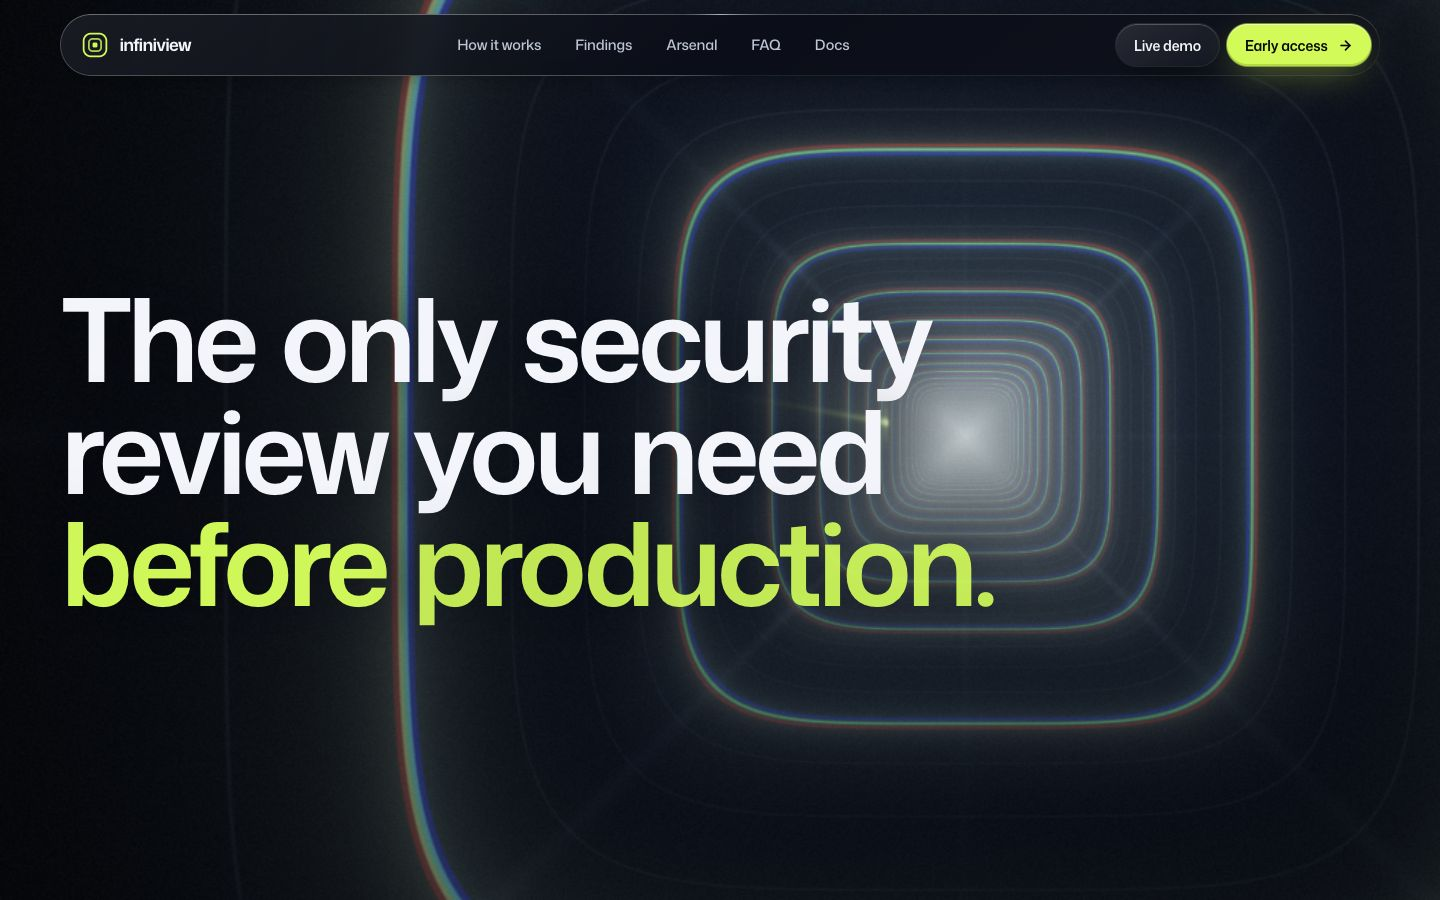
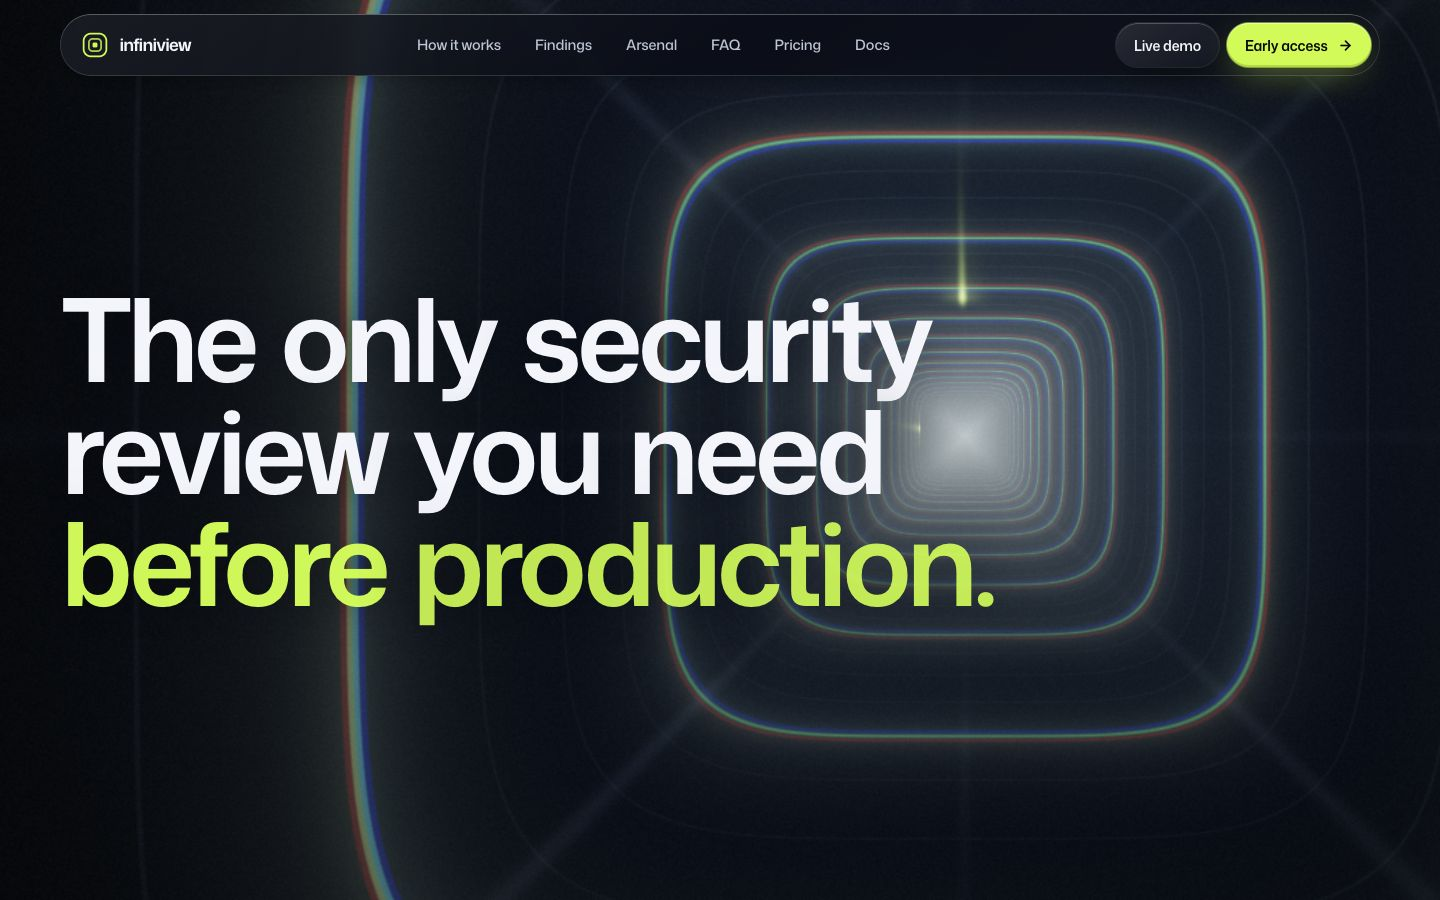
Remove the pointer-following sheen and rim from the glass panes
The radial sheen and the conic rim whose angle followed the pointer are gone
(waitlist box, header bar, hero card and every other pane). Panes keep a flat
1px hairline edge; glass buttons brighten flat on hover. The pointer-lit effect
block in the shell is deleted with its custom properties.

This is deliberately a separate, final commit: reverting it restores the effect
(code, README wording and screenshots together).

Verified on the built site: 222/222 end-to-end checks on the production build
and on the dev server, axe clean, contrast sweeps clean (fade-in snapshots
aside), WebKit and Firefox smoke. README screenshots regenerated.

diff --git a/src/components/site/shell.tsx b/src/components/site/shell.tsx
@@ -24,7 +24,6 @@ let navIntroPlayed = false;
  * SiteShell — the single owner of time on this site.
  *   · Lenis smooth scroll, driven from GSAP's ticker (one clock for everything)
  *   · scroll → corridor depth, pointer → light
- *   · pointer-lit glass (rim + sheen follow the cursor)
  *   · scroll reveals + split-text headings
  */
 export function SiteShell({ children }: { children: ReactNode }) {
@@ -375,95 +374,6 @@ export function SiteShell({ children }: { children: ReactNode }) {
     ready.then(() => requestAnimationFrame(() => requestAnimationFrame(() => window.setTimeout(go, 60))));
     return () => {
       cancelled = true;
-    };
-  }, [pathname]);
-
-  /* ── Pointer-lit glass ──────────────────────────────────────────────── */
-  useEffect(() => {
-    if (isCoarsePointer()) return;
-    const mqReduce = window.matchMedia("(prefers-reduced-motion: reduce)");
-    const visible = new Set<HTMLElement>();
-    const io = new IntersectionObserver(
-      (entries) => {
-        for (const en of entries) {
-          const el = en.target as HTMLElement;
-          if (en.isIntersecting) visible.add(el);
-          else visible.delete(el);
-        }
-      },
-      { rootMargin: "120px" },
-    );
-    const watch = () => {
-      document
-        .querySelectorAll<HTMLElement>(".site-root .glass")
-        .forEach((el) => io.observe(el));
-    };
-    watch();
-    const rescan = window.setTimeout(watch, 900);
-
-    let px = -9999;
-    let py = -9999;
-    let queued = false;
-    const paint = () => {
-      queued = false;
-      // reduced motion (also if switched on while the page is open): no pointer light at all
-      if (mqReduce.matches) {
-        visible.forEach((el) => {
-          if (el.dataset.lit === "1") {
-            el.style.setProperty("--lit", "0");
-            el.dataset.lit = "0";
-          }
-        });
-        return;
-      }
-      // read every rect first, then write: interleaving reads and writes forces a synchronous
-      // layout per element on every pointer/scroll frame
-      const els = [...visible];
-      const rects = els.map((el) => el.getBoundingClientRect());
-      els.forEach((el, i) => {
-        const r = rects[i];
-        const near =
-          px > r.left - 140 && px < r.right + 140 && py > r.top - 140 && py < r.bottom + 140;
-        const was = el.dataset.lit === "1";
-        if (!near) {
-          if (was) {
-            el.style.setProperty("--lit", "0");
-            el.dataset.lit = "0";
-          }
-          return;
-        }
-        if (!was) {
-          el.style.setProperty("--lit", "1");
-          el.dataset.lit = "1";
-        }
-        el.style.setProperty("--mx", `${px - r.left}px`);
-        el.style.setProperty("--my", `${py - r.top}px`);
-        const cx = r.left + r.width / 2;
-        const cy = r.top + r.height / 2;
-        const deg = (Math.atan2(py - cy, px - cx) * 180) / Math.PI + 90;
-        el.style.setProperty("--rim-a", `${deg - 40}deg`);
-      });
-    };
-    const queue = () => {
-      if (!queued) {
-        queued = true;
-        requestAnimationFrame(paint);
-      }
-    };
-    const onMove = (e: PointerEvent) => {
-      px = e.clientX;
-      py = e.clientY;
-      queue();
-    };
-    window.addEventListener("pointermove", onMove, { passive: true });
-    window.addEventListener("scroll", queue, { passive: true });
-    mqReduce.addEventListener("change", queue);
-    return () => {
-      mqReduce.removeEventListener("change", queue);
-      window.clearTimeout(rescan);
-      io.disconnect();
-      window.removeEventListener("pointermove", onMove);
-      window.removeEventListener("scroll", queue);
     };
   }, [pathname]);
 

diff --git a/src/app/(site)/site.css b/src/app/(site)/site.css
@@ -253,10 +253,6 @@ html.lenis body {
 
   .glass {
     --r: 28px;
-    --lit: 0;
-    --mx: 50%;
-    --my: 0%;
-    --rim-a: 0deg;
     position: relative;
     isolation: isolate;
     border-radius: var(--r);
@@ -271,24 +267,7 @@ html.lenis body {
       0 40px 90px -40px rgba(0, 0, 0, 0.85),
       0 8px 24px -12px rgba(0, 0, 0, 0.5);
   }
-  /* pointer-following sheen */
-  .glass::before {
-    content: '';
-    position: absolute;
-    inset: 0;
-    z-index: -1;
-    border-radius: inherit;
-    pointer-events: none;
-    background: radial-gradient(
-      520px circle at var(--mx) var(--my),
-      rgba(255, 255, 255, 0.13),
-      rgba(255, 255, 255, 0.03) 45%,
-      transparent 70%
-    );
-    opacity: var(--lit);
-    transition: opacity 0.35s var(--ease-out);
-  }
-  /* luminous rim: a 1px conic gradient masked to the border box */
+  /* the pane's edge: a flat 1px hairline masked to the border box (the top highlight is in the shadow) */
   .glass::after {
     content: '';
     position: absolute;
@@ -296,15 +275,7 @@ html.lenis body {
     border-radius: inherit;
     padding: 1px;
     pointer-events: none;
-    background: conic-gradient(
-      from var(--rim-a) at 50% 50%,
-      rgba(255, 255, 255, 0.6),
-      rgba(255, 255, 255, 0.07) 18%,
-      rgba(255, 255, 255, 0.02) 42%,
-      rgba(255, 255, 255, 0.28) 68%,
-      rgba(255, 255, 255, 0.07) 86%,
-      rgba(255, 255, 255, 0.6)
-    );
+    background: rgba(255, 255, 255, 0.11);
     -webkit-mask: linear-gradient(#000 0 0) content-box, linear-gradient(#000 0 0);
     -webkit-mask-composite: xor;
     mask: linear-gradient(#000 0 0) content-box exclude, linear-gradient(#000 0 0);
@@ -414,7 +385,7 @@ html.lenis body {
   }
   .btn--glass:hover {
     background:
-      linear-gradient(145deg, rgba(255, 255, 255, 0.2), rgba(255, 255, 255, 0.06)),
+      linear-gradient(rgba(255, 255, 255, 0.1), rgba(255, 255, 255, 0.1)),
       rgba(8, 10, 20, 0.4);
     box-shadow:
       inset 0 1px 0 rgba(255, 255, 255, 0.35),
@@ -2751,7 +2722,6 @@ html:not(.js) .site-root .dot--sig { opacity: 1; }
     transform: none !important;
     animation: none !important;
   }
-  .glass::before,
   .glass::after { display: none !important; }
   .counter-anim { display: none !important; }
   .counter-final { position: static !important; width: auto !important; height: auto !important; margin: 0 !important; overflow: visible !important; clip: auto !important; clip-path: none !important; white-space: normal !important; }

diff --git a/docs/redesign/README.md b/docs/redesign/README.md
@@ -48,13 +48,13 @@ on the threat marquee and the footer wordmark, and animates open on the hero hea
 One clock, one scroll engine, no competing animators.
 
 - **GSAP 3.15** (ScrollTrigger, SplitText) owns all choreography. **Lenis** owns smooth scroll and is driven *from GSAP's ticker*, so scroll, the WebGL scene and every tween share a frame.
-- `components/site/shell.tsx` is the single owner of time: Lenis, damping of scroll → corridor depth, pointer → light, the pointer-lit glass rims, and the global scroll-reveal / split-heading system.
+- `components/site/shell.tsx` is the single owner of time: Lenis, damping of scroll → corridor depth, pointer → light, and the global scroll-reveal / split-heading system.
 - **The corridor** (`corridor-shader.ts`) is a from-scratch fragment shader, not a library: a rounded-square tube solved analytically (superellipse radius → depth, no ray-marching), glass frames with constant z-thickness so perspective is exact, prismatic dispersion in *pixel* terms, ribbed secondary frames, agent "probes" running down the walls, and a portal at the vanishing point. Scroll sets camera depth; velocity adds roll and dispersion; each chapter nudges a shared `mood` (alert, energy, portal, width).
 - Easing is `expo.out` / `power4.out` for arrivals and `power3.inOut` for transitions; feedback on controls is ≤ 0.3 s.
 - **Performance**: the canvas renders at a fraction of device resolution with a frame-time governor that sheds pixels first and, only if that is not enough, sets `html[data-perf="low"]` which removes backdrop blur. Large, mostly-opaque panes do not blur at all. The loop pauses with the tab.
 - **Progressive enhancement**: collapsing (pipeline steps, FAQ, arsenal layers) only happens when script is running, so with no script everything stays readable; collapsed copy is also removed from the accessibility tree rather than just clipped. A failsafe in the root layout reveals all marketing content if the app bundle never boots.
 - **Reduced motion**: Lenis is off, the corridor renders one still frame, pinned scrub sequences become static layouts, everything is visible. Content is only hidden when script is present *and* will reveal it; a failsafe un-hides after 3 s (the entrance then simply does not play).
-- **Touch**: pointer effects (tilt, magnetic buttons, rim light) are disabled on coarse pointers; the pinned pipeline restages for phones, and its stage is sized so the active step's copy always fits the screen (checked from 320×568 up). Screens under 560px tall (a phone in landscape) get the same static layout as reduced motion, because a pinned stage plus its copy cannot fit there.
+- **Touch**: pointer effects (tilt, magnetic buttons) are disabled on coarse pointers; the pinned pipeline restages for phones, and its stage is sized so the active step's copy always fits the screen (checked from 320×568 up). Screens under 560px tall (a phone in landscape) get the same static layout as reduced motion, because a pinned stage plus its copy cannot fit there.
 - **Live preference changes**: switching reduced motion on or off while the page is open is honoured by the marquee, the scan stream, the magnetic buttons, the pointer light, Lenis smoothing and any smooth jump already under way (it is completed at once, focus included); content already revealed stays visible.
 
 ## Engineering notes
